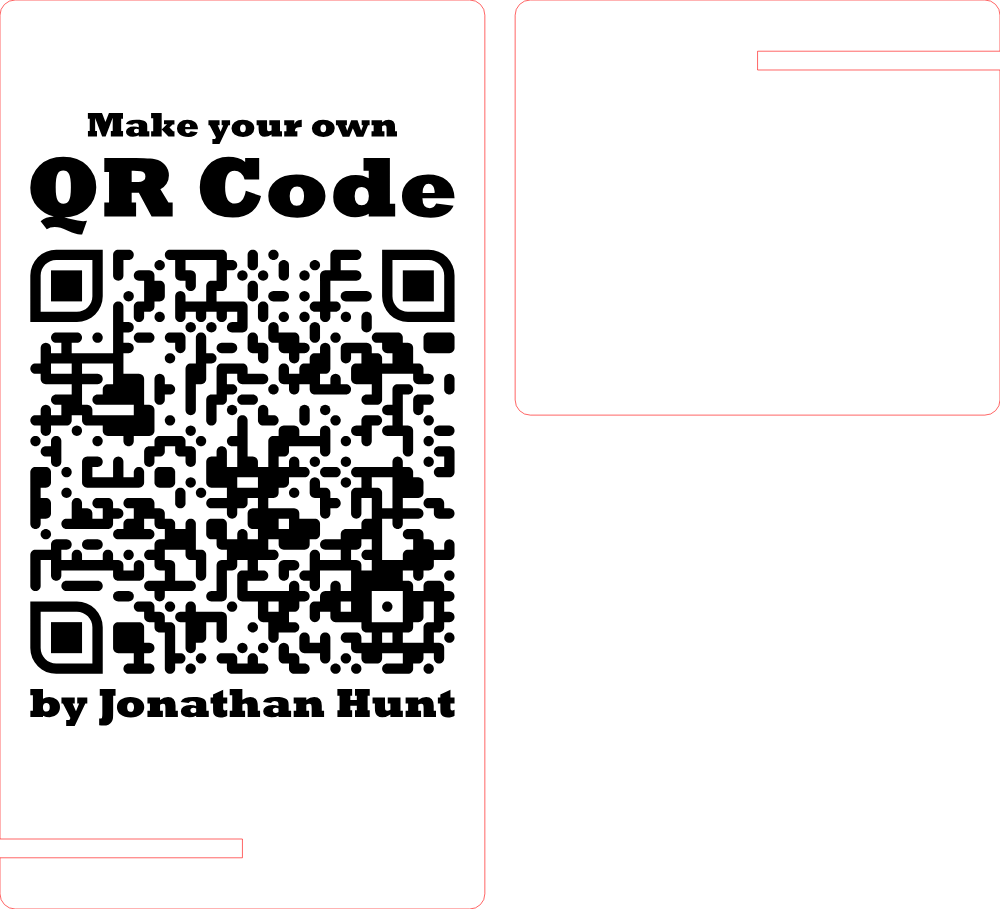
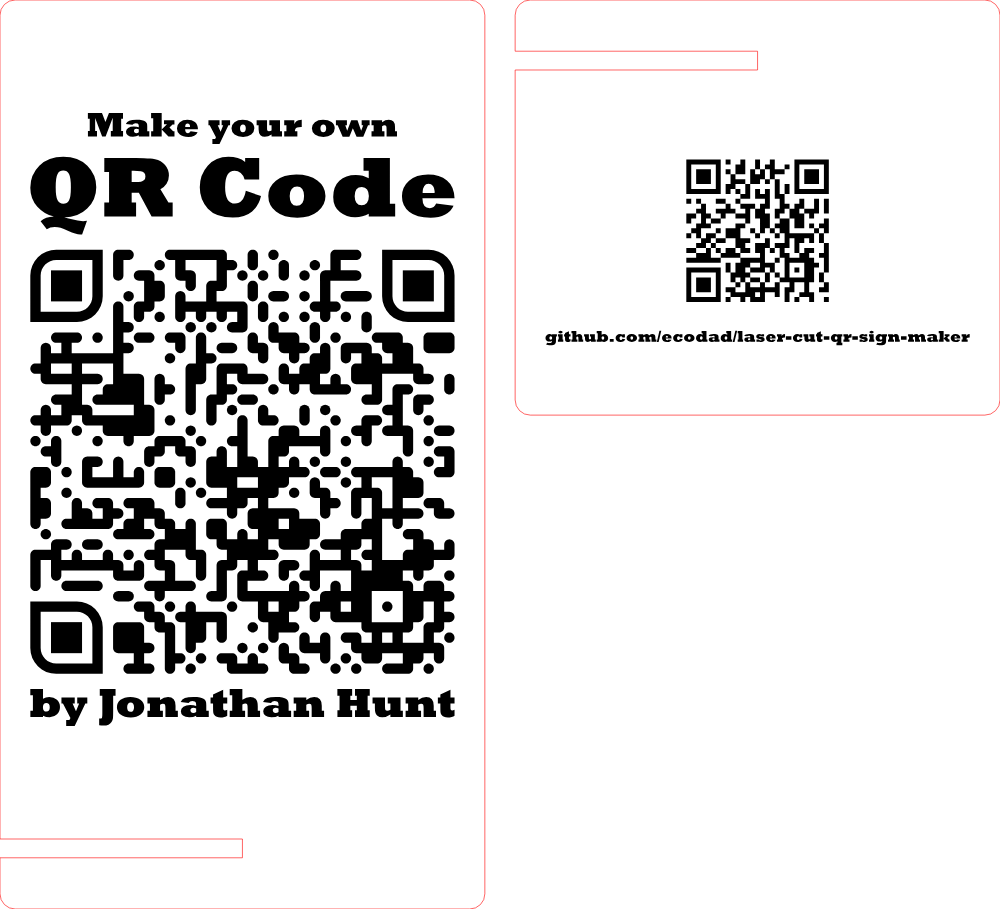
v0.3.3: optional QR code + URL on the laser base, base drawing mirrored
- signmaker: base_qr / base_qr_url / base_qr_text / base_qr_size_mm /
  base_qr_text_mm; a plain 30 mm code (EC M) and one text line engraved
  on the top of the base behind the sign, reading from behind the stand
- the base cut outline is mirrored about its centre line so the engraved
  face ends up on top; the slot stays on the same physical side
- app: Base engraving controls on the sign tab; assembled view shows the
  engraving on the base top
- example regenerated with the base engraving and a from-behind render

Changed region(s): [[0.527, 0.1522, 0.961, 0.3957], [0.992, 0.0609, 1.0, 0.0913]]

diff --git a/qrsign/signmaker.py b/qrsign/signmaker.py
@@ -71,6 +71,12 @@ DEFAULTS = {
     "line_spacing": 1.15,       # multiple of font size between baselines
     "cut_stroke_mm": 0.1,
     "piece_spacing_mm": 5.0,
+    # optional QR code + URL engraved on the top of the base, behind the sign (laser version)
+    "base_qr": 1,                       # 1 = engrave it, 0 = plain base
+    "base_qr_url": "github.com/ecodad/laser-cut-qr-sign-maker",   # what the code encodes
+    "base_qr_text": "",                 # one line under the code; blank = the URL
+    "base_qr_size_mm": 30.0,            # code width including its quiet zone
+    "base_qr_text_mm": 2.8,             # text height, shrunk if the line is wider than the base allows
     "output_dir": "output",
 }
 
@@ -79,7 +85,7 @@ class ConfigError(ValueError):
 
 
 TEXT_KEYS = {"text_above", "text_below", "qr_file", "font", "output_dir",
-             "text_above_scales", "text_below_scales"}
+             "text_above_scales", "text_below_scales", "base_qr_url", "base_qr_text"}
 
 
 def parse_config_file(path):
@@ -742,7 +748,58 @@ def _svg_doc(w, h, inner, comment):
     ])
 
 
-def write_svg(cfg, out_path, engrave, info, config_name):
+def base_engraving(cfg, ts):
+    """QR code + one text line for the top of the base, behind the sign. Returns (elements, info)
+    where elements are (path d, transform) in the base's *mirrored* drawing coords (front end at
+    the top, y down), laid out upright so they read for someone standing behind the stand.
+    Empty when base_qr is off."""
+    if not cfg.get("base_qr"):
+        return [], {}
+    url = (cfg.get("base_qr_url") or "").strip()
+    if not url:
+        return [], {}
+    from . import encode as _enc, render as _render
+    Wb, Lf, Lb = cfg["base_width_mm"], cfg["base_front_mm"], cfg["base_back_mm"]
+    b = cfg["border_mm"]
+    sw = slot_width(cfg)
+    size = max(8.0, float(cfg.get("base_qr_size_mm") or 30.0))
+    region_top = Lf + sw / 2 + b              # just behind the slot
+    region_bottom = Lf + Lb - b
+    avail_w = Wb - 2 * b
+    size = min(size, avail_w, region_bottom - region_top)
+    # plain square modules, error correction M: the smallest code that still reads on wood
+    m = _enc.encode(url, error="m")
+    geom = _render.build_geometry(m, _render.Style(body="square", eye_frame="square", eye_ball="square"))
+    total = m.size + 2 * _render.QUIET_ZONE
+    k = size / total
+    text = (cfg.get("base_qr_text") or url).strip()
+    text_mm = float(cfg.get("base_qr_text_mm") or 2.8)
+    gap = 1.5
+    t_h = 0.0
+    text_el = None
+    if text:
+        _, (x0, y0, x1, y1) = ts.layout(text)
+        wu = (x1 - x0) / ts.upm
+        if wu > 0:
+            text_mm = min(text_mm, avail_w / wu)
+        t_h = (y1 - y0) / ts.upm * text_mm
+    block_h = size + (gap + t_h if text else 0)
+    y_top = region_top + max(0.0, (region_bottom - region_top - block_h) / 2)
+    x_left = (Wb - size) / 2
+    tf = f"translate({x_left:.3f},{y_top:.3f}) scale({k:.6f})"
+    elements = [(_render.geometry_path_d(geom), tf)]
+    if text and t_h > 0:
+        _, (x0, y0, x1, y1) = ts.layout(text)
+        kk = text_mm / ts.upm
+        w = (x1 - x0) * kk
+        baseline = y_top + size + gap + y1 * kk
+        elements.append((ts.path(text, text_mm, (Wb - w) / 2, baseline), None))
+    info = {"base_qr_mm": round(size, 2), "base_qr_version": m.version, "base_qr_text_mm": round(text_mm, 2),
+            "base_qr_url": url, "base_qr_text": text}
+    return elements, info
+
+
+def write_svg(cfg, out_path, engrave, info, config_name, base_engrave=()):
     """Writes <name>.svg (both pieces side by side) plus <name>-sign.svg and <name>-base.svg."""
     W, H = cfg["width_mm"], cfg["height_mm"]
     Wb, Hb = cfg["base_width_mm"], cfg["base_front_mm"] + cfg["base_back_mm"]
@@ -757,7 +814,16 @@ def write_svg(cfg, out_path, engrave, info, config_name):
         sign_lines.append(f'      <path{t} d="{d}"/>')
     sign_lines += ['    </g>',
                    f'    <path id="sign-cut" fill="none" stroke="#ff0000" stroke-width="{cut}" d="{outline_path(sign_outline(cfg), r)}"/>']
-    base_lines = [f'    <path id="base-cut" fill="none" stroke="#ff0000" stroke-width="{cut}" d="{outline_path(base_outline(cfg), r)}"/>']
+    # The base is drawn MIRRORED about its vertical centre line: its drawing face is the one that
+    # ends up on top in the assembled stand (the plate leans through the sign face-down otherwise),
+    # so the engraving lands on top and the slot still comes out on the same physical side.
+    base_lines = [f'    <g id="base-engrave" fill="#000000" stroke="none">']
+    for d, tf in base_engrave:
+        t = f' transform="{tf}"' if tf else ""
+        base_lines.append(f'      <path{t} d="{d}"/>')
+    base_lines += ['    </g>',
+                   f'    <path id="base-cut" fill="none" stroke="#ff0000" stroke-width="{cut}" '
+                   f'transform="matrix(-1 0 0 1 {Wb:.3f} 0)" d="{outline_path(base_outline(cfg), r)}"/>']
     out_path = Path(out_path)
     out_path.write_text(_svg_doc(W + gap + Wb, max(H, Hb),
                                  ['  <g id="sign">', *sign_lines, '  </g>',
@@ -785,7 +851,9 @@ def generate(cfg, name, out_dir, qr_path, log=print):
     if cfg["merge_qr"]:
         qr_paths, qr_bbox = merge_paths(qr_paths, qr_bbox, log=log)
     engrave, info = compose(cfg, ts, qr_paths, qr_bbox)
-    sign_svg, base_svg = write_svg(cfg, out_svg, engrave, info, name)
+    base_engrave, base_info = base_engraving(cfg, ts)
+    info.update(base_info)
+    sign_svg, base_svg = write_svg(cfg, out_svg, engrave, info, name, base_engrave)
     r = cfg["corner_radius_mm"]
     geom = {
         "config": name, "font_file": str(font_path),
@@ -796,6 +864,7 @@ def generate(cfg, name, out_dir, qr_path, log=print):
         "base": {"width": cfg["base_width_mm"], "front": cfg["base_front_mm"], "back": cfg["base_back_mm"],
                  "thickness": cfg["thickness_mm"], "angle_from_vertical_deg": cfg["base_angle_deg"],
                  "slot_width": round(slot_width(cfg), 3), "slot_opens": "right",
+                 "drawing_mirrored": True, "engraving_on_top": bool(base_engrave),
                  "outline": outline_polygon(base_outline(cfg), r)},
         "corner_radius": r,
         "crossing_angle_deg": round(math.degrees(crossing_angle(cfg)), 2),
@@ -804,7 +873,7 @@ def generate(cfg, name, out_dir, qr_path, log=print):
     (out_dir / f"{name}.json").write_text(json.dumps(geom, indent=2), encoding="utf-8")
     return {
         "svg": out_svg, "sign_svg": sign_svg, "base_svg": base_svg, "json": out_dir / f"{name}.json",
-        "info": info, "geom": geom,
+        "info": info, "geom": geom, "base_engrave": base_engrave,
         "sign_svg_text": sign_svg.read_text(encoding="utf-8"),
         "base_svg_text": base_svg.read_text(encoding="utf-8"),
         "combined_svg_text": out_svg.read_text(encoding="utf-8"),

diff --git a/tests/test_base_qr.py b/tests/test_base_qr.py
@@ -1,0 +1,87 @@
+"""Optional QR + URL engraved on the top of the laser base, with the base drawing mirrored."""
+import re
+import sys
+from pathlib import Path
+
+ROOT = Path(__file__).resolve().parents[1]
+sys.path.insert(0, str(ROOT))
+from qrsign import assembly, encode, print3d, project, render, fonts  # noqa: E402
+from qrsign import signmaker as sm  # noqa: E402
+
+URL = "https://github.com/ecodad/laser-cut-qr-sign-maker"
+
+
+def _project(**sign):
+    names = fonts.font_names()
+    font = next((f for f in ("Ravenscroft", "Arial", "DejaVu Sans", "Liberation Sans") if f in names), names[0])
+    p = project.Project(name="bq", url=URL, style=render.Style(body="smooth"))
+    p.sign.update({"text_above": "Donate to | Example", "text_above_scales": "0.45 | 1", "text_below": "Thanks!", "font": font})
+    p.sign.update(sign)
+    return p
+
+
+def test_base_engraving_present_and_placed(tmp_path):
+    p = _project()
+    res = p.make_sign(tmp_path, log=lambda *a: None)
+    base = res["base_svg_text"]
+    assert 'id="base-engrave"' in base and base.count("<path") >= 3     # QR, URL text, cut
+    assert 'transform="matrix(-1 0 0 1' in base                           # the cut outline is mirrored
+    info = res["info"]
+    assert info["base_qr_mm"] == 30 and info["base_qr_url"].startswith("github.com/")
+    # the engraving sits behind the slot, inside the border
+    cfg = p.sign_config()
+    m = re.search(r'translate\(([\d.]+),([\d.]+)\) scale\(([\d.]+)\)', base)
+    x, y, k = float(m.group(1)), float(m.group(2)), float(m.group(3))
+    assert y > cfg["base_front_mm"] + sm.slot_width(cfg) / 2 + cfg["border_mm"] - 1e-6
+    assert x + 30 <= cfg["base_width_mm"] - cfg["border_mm"] + 1e-6
+
+
+def test_base_engraving_off(tmp_path):
+    p = _project(base_qr=0)
+    res = p.make_sign(tmp_path, log=lambda *a: None)
+    assert 'id="base-engrave"' in res["base_svg_text"]
+    assert res["base_svg_text"].count("<path") == 1                      # only the cut outline
+    assert "base_qr_mm" not in res["info"]
+
+
+def test_base_code_decodes_at_30mm():
+    """The plain square code at 30 mm has modules of about 0.8 mm; make sure it is a small version and decodes."""
+    m = encode.encode("github.com/ecodad/laser-cut-qr-sign-maker", error="m")
+    assert m.version <= 3
+    geom = render.build_geometry(m, render.Style())
+    ok, text = render.verify(render.to_png(geom, m.size, 300), m.text)
+    assert ok, text
+
+
+def test_custom_url_and_text(tmp_path):
+    p = _project(base_qr_url="example.org/x", base_qr_text="scan me", base_qr_size_mm=20)
+    res = p.make_sign(tmp_path, log=lambda *a: None)
+    assert res["info"]["base_qr_mm"] == 20 and res["info"]["base_qr_text"] == "scan me"
+
+
+def test_assembled_base_engraving_on_top(tmp_path):
+    p = _project()
+    res = p.make_sign(tmp_path, log=lambda *a: None)
+    cfg = p.sign_config()
+    text, qr, _, cfg3 = print3d.layout_geometry(cfg, res["qr_svg"], None, log=lambda *a: None)
+    parts = assembly.laser_stand(cfg3, text, qr, res["base_engrave"])
+    names = [n for n, _, _ in parts]
+    assert "Base engraving" in names
+    base = next(m for n, m, _ in parts if n == "Base")
+    eng = next(m for n, m, _ in parts if n == "Base engraving")
+    assert eng.is_closed()
+    # the engraving lies on the base plate's upper face: measured along the plate's drawing-face
+    # normal (which points down in the assembly) it sits just beyond the top surface, and it is
+    # behind the sign (y > 0)
+    import math
+    import numpy as np
+    tb = math.radians(cfg3["base_angle_deg"])
+    n_base = np.array([0.0, -math.cos(tb), -math.sin(tb)])
+    ts_ = math.radians(cfg3["angle_deg"])
+    u_sign = np.array([0.0, math.sin(ts_), math.cos(ts_)])
+    u_base = np.array([0.0, -math.sin(tb), math.cos(tb)])
+    base_origin = u_sign * cfg3["base_height_mm"] - u_base * cfg3["base_back_mm"]
+    d = (eng.vertices - base_origin) @ n_base
+    t = cfg3["thickness_mm"]
+    assert d.max() <= -t / 2 + 1e-6 and d.min() >= -t / 2 - assembly.ENGRAVE_MM - 1e-6, (d.min(), d.max())
+    assert eng.vertices[:, 1].min() > 5

diff --git a/qrsign/app.py b/qrsign/app.py
@@ -144,7 +144,8 @@ def build(state: State):
     def sign_values():
         for key in project.MAIN_KEYS + project.ADVANCED_KEYS:
             if key in w["sign"]:
-                p.sign[key] = w["sign"][key].value
+                val = w["sign"][key].value
+                p.sign[key] = int(bool(val)) if key == "base_qr" else val
 
     def refresh_sign():
         sign_values()
@@ -161,7 +162,7 @@ def build(state: State):
         try:
             cfg3 = p.sign_config()
             text, qr, _, cfg3 = print3d.layout_geometry(cfg3, res["qr_svg"], None, log=lambda *a: None)
-            parts = assembly.laser_stand(cfg3, text, qr)
+            parts = assembly.laser_stand(cfg3, text, qr, res.get("base_engrave", ()))
             _fill_scene(w["sign_scene"], parts, state.folder / "output" / "assembly", "laser", p.name, cfg3["height_mm"] * 0.45)
         except Exception as e:
             ui.notify(f"3D view failed: {e}", type="warning")
@@ -327,6 +328,14 @@ def build(state: State):
                     w["sign"]["text_below_scales"] = ui.input("Relative line sizes below", value=p.sign["text_below_scales"]).classes("w-full")
                     w["sign"]["font"] = ui.select(font_names, label="Font (installed)", value=p.sign.get("font"), with_input=True).classes("w-full")
                     w["sign"]["border_mm"] = ui.number("Border (mm)", value=p.sign["border_mm"], min=0, max=50, step=0.5).classes("w-32")
+                    with ui.expansion("Base engraving: a QR code and URL on top of the base, behind the sign", icon="qr_code", value=True).classes("w-full"):
+                        w["sign"]["base_qr"] = ui.checkbox("Engrave a QR code + URL on the base", value=bool(p.sign.get("base_qr", 1)))
+                        w["sign"]["base_qr_url"] = ui.input("URL the code encodes", value=p.sign.get("base_qr_url", "")).classes("w-full")
+                        w["sign"]["base_qr_text"] = ui.input("Text line under it (blank = the URL)", value=p.sign.get("base_qr_text", "")).classes("w-full")
+                        with ui.row().classes("gap-2"):
+                            w["sign"]["base_qr_size_mm"] = ui.number("Code size (mm)", value=p.sign.get("base_qr_size_mm", 30), min=8, max=200).classes("w-32")
+                            w["sign"]["base_qr_text_mm"] = ui.number("Text height (mm)", value=p.sign.get("base_qr_text_mm", 2.8), min=1, max=20, step=0.1).classes("w-32")
+                        ui.label("Reads from behind the stand. The base is drawn mirrored so this face ends up on top.").classes("text-xs text-grey")
                     with ui.expansion("Advanced", icon="tune").classes("w-full"):
                         labels = {
                             "crossing_angle_deg": "Crossing angle between the boards (°); blank to use the sign lean below",

diff --git a/qrsign/assembly.py b/qrsign/assembly.py
@@ -8,6 +8,7 @@ import struct
 from pathlib import Path
 
 import numpy as np
+from shapely import affinity
 from shapely.geometry import Polygon
 
 from . import mesh3d, print3d
@@ -34,8 +35,9 @@ def _board(outline_pts, length, width, thickness):
     return mesh3d.extrude(poly, -thickness / 2, thickness / 2)
 
 
-def laser_stand(cfg, text=None, qr=None):
-    """-> list of (name, Mesh, colour) for the laser-cut stand assembled on the table."""
+def laser_stand(cfg, text=None, qr=None, base_engrave=()):
+    """-> list of (name, Mesh, colour) for the laser-cut stand assembled on the table.
+    base_engrave: the base's engraving elements (path d, transform) in its mirrored drawing coords."""
     W, H, t = cfg["width_mm"], cfg["height_mm"], cfg["thickness_mm"]
     r = cfg["corner_radius_mm"] or 0.0
     ts, tb = math.radians(cfg["angle_deg"]), math.radians(cfg["base_angle_deg"])
@@ -57,6 +59,25 @@ def laser_stand(cfg, text=None, qr=None):
             m = mesh3d.extrude(print3d.manifold_safe(g), t / 2, t / 2 + ENGRAVE_MM)
             m = m.translated(dx=-W / 2)
             parts.append((name, place(m, (0, 0, 0), u_sign, n_sign), INK))
+    if base_engrave:
+        # mirrored drawing coords (x', y down from the front end) -> board coords: the drawing face
+        # is the board's -z side (it faces up in the assembly), x_board = Wb/2 - x', y up from the back
+        from svgelements import Path as SPath, Matrix
+        from shapely.ops import unary_union
+        Wb, Lf, Lb = cfg["base_width_mm"], cfg["base_front_mm"], cfg["base_back_mm"]
+        ds = []
+        for d, tf in base_engrave:
+            pth = SPath(d)
+            if tf:
+                pth *= Matrix(tf)
+            pth.reify()
+            ds.append(pth.d())
+        shapes = print3d._shapes_from_paths(ds, 0.05)
+        if shapes:
+            g = unary_union(shapes)
+            g = affinity.affine_transform(g, [-1, 0, 0, -1, Wb / 2, Lf + Lb])   # x' -> Wb/2 - x', y -> (Lf+Lb) - y
+            m = mesh3d.extrude(print3d.manifold_safe(g), -t / 2 - ENGRAVE_MM, -t / 2)
+            parts.append(("Base engraving", place(m, base_origin, u_base, n_base), INK))
     return parts
 
 

diff --git a/qrsign/project.py b/qrsign/project.py
@@ -14,7 +14,8 @@ PROJECT_SUFFIX = ".qrsign.json"
 
 # the sign config keys shown on the main panel vs. the advanced panel
 MAIN_KEYS = ["width_mm", "height_mm", "thickness_mm", "text_above", "text_above_scales",
-             "text_below", "text_below_scales", "font", "border_mm"]
+             "text_below", "text_below_scales", "font", "border_mm",
+             "base_qr", "base_qr_url", "base_qr_text", "base_qr_size_mm", "base_qr_text_mm"]
 ADVANCED_KEYS = ["crossing_angle_deg", "angle_deg", "base_height_mm", "base_front_mm", "base_back_mm",
                  "base_width_mm", "base_angle_deg", "corner_radius_mm", "slot_clearance_mm", "qr_fraction",
                  "gap_mm", "line_spacing", "merge_qr", "cut_stroke_mm", "piece_spacing_mm"]
@@ -24,6 +25,8 @@ DEFAULT_SIGN = {
     "crossing_angle_deg": 90, "base_height_mm": 10, "base_front_mm": 10, "base_back_mm": 58.5,
     "text_above": "", "text_above_scales": "", "text_below": "", "text_below_scales": "",
     "font": "", "border_mm": 5, "corner_radius_mm": 2.5, "qr_fraction": 0.62,
+    "base_qr": 1, "base_qr_url": "github.com/ecodad/laser-cut-qr-sign-maker", "base_qr_text": "",
+    "base_qr_size_mm": 30, "base_qr_text_mm": 2.8,
 }
 
 

diff --git a/qrsign/__init__.py b/qrsign/__init__.py
@@ -1,3 +1,3 @@
 """qrsign — design a static QR code and turn it into a two-piece laser-cut sign."""
 
-__version__ = "0.3.2"
+__version__ = "0.3.3"

diff --git a/README.md b/README.md
@@ -58,6 +58,13 @@ slot leaning back 10° (configurable), as wide as the sign plus side walls, and 
 a blank zone at the bottom as deep as the slot. *Generate 3D files* writes `<name>.3mf` with
 the sign and the base side by side; delete one in the slicer if you only want the other.
 
+**Base engraving.** By default the laser base also gets a 30 mm QR code and a one-line URL
+engraved on its top, behind the sign, readable from behind the stand, pointing at this
+repository so someone who likes the sign can make their own. Untick it in the sign tab to
+leave the base plain, or change the URL, the text, the size and the text height. The base is
+drawn mirrored about its centre line so that engraved face ends up on top; the slot still
+comes out on the same side when assembled.
+
 **Assembled views.** Both the sign tab and the 3D tab show an orbitable three.js view
 after Generate: the laser stand leaning on its slotted base, and the printed sign standing in
 its printed base. Drag to orbit, wheel to zoom. The parts are also written as STL files under
@@ -144,6 +151,9 @@ PNG next to it and update `qr_file`.
 | `corner_radius_mm` | radius on the four outer corners of each piece, 0 for square (2.5) |
 | `slot_clearance_mm` | added to every slot width for fit / kerf (0.1) |
 | `merge_qr` | 1 unions the QR modules and logo into single regions, 0 keeps the source shapes (1) |
+| `base_qr` | 1 engraves a QR code + URL on the top of the base, 0 leaves it plain (1) |
+| `base_qr_url`, `base_qr_text` | what the base code encodes (`github.com/ecodad/laser-cut-qr-sign-maker`) and the line under it (blank = the URL) |
+| `base_qr_size_mm`, `base_qr_text_mm` | base code width including quiet zone (30) and text height (2.8) |
 | `cut_stroke_mm` | stroke width of the red cut lines (0.1) |
 | `piece_spacing_mm` | gap between the pieces in the combined SVG (5) |
 | `output_dir` | where the files go (`output`) |
@@ -181,12 +191,15 @@ stack by their actual ink height, so a small line over a big one has no dead spa
 | `qr-sign-maker-sign.svg`, `-base.svg`, `-sheet.svg` | laser cut files: sign, base, both on one sheet |
 | `qr-sign-maker-config.txt` | the command-line config that reproduces the laser files |
 | `qr-sign-maker.3mf` | the 3D-printable sign and base, multi-filament |
-| `images/` | the QR code, the cut sheet and the two assembled views |
+| `images/` | the QR code, the cut sheet, the two assembled views, and the laser stand seen from behind with the base engraving |
 
 Open it in the app with *Open project* after copying the folder into `~/qrsign-projects/`.
 The text uses Rockwell Extra Bold; pick another font if it is not installed.
 
-<p align="center"><img src="examples/qr-sign-maker/images/cut-sheet.png" width="520" alt="Cut sheet: sign left, base right"></p>
+<p align="center">
+  <img src="examples/qr-sign-maker/images/cut-sheet.png" width="420" alt="Cut sheet: sign left, base right">
+  <img src="examples/qr-sign-maker/images/laser-stand-from-behind.png" width="400" alt="The base's QR code and URL, seen from behind the stand">
+</p>
 
 ## Tests
 
